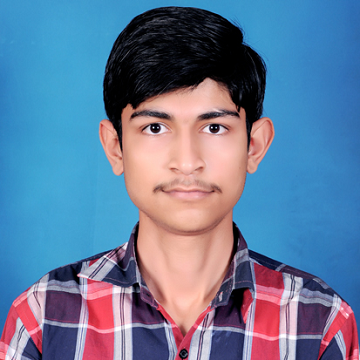
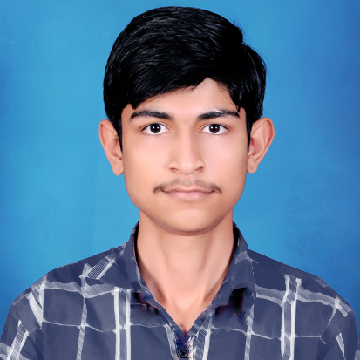
updates and fixes

diff --git a/index.html b/index.html
@@ -14,7 +14,7 @@
   <meta name="viewport" content="width=device-width, initial-scale=1, maximum-scale=1.0, user-scalable=no">
 
   <!-- Favicon-->
-  <link rel="shortcut icon" href="images/favicon.png" >
+  <link rel="shortcut icon" href="images/favicon.ico" >
 
   <!-- Stylesheets -->
   <link rel="stylesheet" href="assets/css/normalize.css">
@@ -66,8 +66,7 @@
             <div class="nav-inner">
               <nav class="primary-nav">
                 <div class="nav-wrapper">
-                  <a href="#home" class="left brand-logo menu-smooth-scroll"><i class="mdi-navigation-menu" style="
-    color: black;"></i></a>
+                  <a href="#home" class="left brand-logo menu-smooth-scroll"><img src="images/logo.png" alt="home"></a>
                   <a href="#" data-activates="mobile-demo" class="button-collapse"><i class="mdi-navigation-menu" style="
     font-size: 2.4rem; line-height: 50px;"></i></a>  
                                       
@@ -109,6 +108,7 @@
                     <li><a href="#home">   Home</a></li>
                       <li><a href="http://github.com/updeshxp"><i class="fa fa-github"></i> Github Profile</a></li>
                       <li><a href="http://codechef.com/users/updeshxp"><i class="fa fa-code"></i> CodeChef id</a></li>
+					  <li><a href="https://www.hackerearth.com/@updesh94"><i class="fa fa-code-fork"></i> HackerEarth id</a></li>
                     <!--<li><a href="blog-with-sidebar.html">Blog with Sidebar</a>-->
                     </li>
                   </ul>
@@ -173,7 +173,7 @@
 
             <div class="col-sm-6 col-md-4">
               <div class="person-img wow fadeIn">
-                <img class="z-depth-1" src="images/passport_size2.jpg" alt="Updesh Srivastava">
+                <img class="z-depth-1" src="images/myPhoto.png" alt="Updesh Srivastava">
               </div>
             </div>
             <!-- about me image -->
@@ -182,16 +182,20 @@
               <div class="person-info">
                 <h3 class="about-subtitle">Personal Information</h3>
                 <h5><span>Name :</span> Updesh Srivastava</h5>
-                <h5><span>Age :</span> 22 Years</h5>
+                <h5><span>Age :</span> 23 Years</h5>
                 <h5><span>Phone :</span> +917531914518</h5>
                 <h5><span>Email :</span> updesh.94@gmail.com</h5>
-                <h5><span>Address :</span> Jhansi, India</h5>
+                <h5><span>Address :</span> Noida, India</h5>
+				<h5><span>Permanent Address :</span> Jhansi, India</h5>
               </div>
 
               <div class="about-social">
                 <ul>
-                  <li class="tooltips tooltipped" data-placement="bottom" data-tooltip="Facebook Profile">
-                    <a href="https://facebook.com/updesh.94" class="btn-floating waves-effect waves-light white"><i class="fa fa-facebook"></i></a>
+                  <li class="tooltips tooltipped" data-placement="bottom" data-tooltip="Instagram Profile">
+                    <a href="https://www.instagram.com/updeshsr/" class="btn-floating waves-effect waves-light white"><i class="fa fa-instagram"></i></a>
+                  </li>
+				  <li class="tooltips tooltipped" data-placement="bottom" data-tooltip="Facebook Profile">
+                    <a href="https://www.facebook.com/updesh.94/" class="btn-floating waves-effect waves-light white"><i class="fa fa-facebook"></i></a>
                   </li>
                   <li class="tooltips tooltipped" data-placement="bottom" data-tooltip="Twitter Profile">
                     <a href="https://twitter.com/updeshxp" class="btn-floating waves-effect waves-light white" ><i class="fa fa-twitter" ></i></a>
@@ -228,7 +232,7 @@
               <div class="col-sm-12 col-md-3">
                 <div class="skill-left">
                   <h2 class="title">Skills</h2>
-                  <p class="regular-text">Man behind the gun, any sophisticated weapons. Human remains that taking the role. We are experienced in utilizing all resources.</p>
+                  <p class="regular-text">Well, Only a few of them..</p>
                 </div>
               </div>
 
@@ -305,6 +309,24 @@
                             </div>
                           </div>
                           <span class="skill-count">70%</span>
+                        </div>
+                      </div>
+                    </div>
+                    <!-- /single skill-->
+					
+                    <!-- single skill -->
+                    <div class="single-skill">
+                      <div class="after-li">
+                        <div class="singel-hr">
+                          <div class="singel-hr-inner" data-height="65%">
+                            <div class="skill-visiable">
+                              <span class="skill-title">Android Development</span>
+                              <div class="hr-wrap">
+                                <div class="hrc"></div>
+                              </div>
+                            </div>
+                          </div>
+                          <span class="skill-count">65%</span>
                         </div>
                       </div>
                     </div>
@@ -511,7 +533,7 @@
                   <div class="clearfix section-head experience-text">
                     <div class="col-sm-12">
                       <h2 class="title">Experience</h2>
-                      <p class="regular-text">Yet to have experience</p>
+                      <p class="regular-text">Looking Forward to it..</p>
                     </div>
                   </div>
                   <div class="col-lg-12">
@@ -660,7 +682,7 @@
                 <div class="clearfix section-head contact-text">
                   <div class="col-sm-12">
                     <h2 class="title">Contact</h2>
-                    <p class="regular-text">Feel free to contact me</p>
+                    <p class="regular-text">Feel free to Contact me</p>
                     <ul class="clearfix contact-info">
                       <li><a href="">+917531914518</a>
                       </li>
@@ -729,7 +751,7 @@
               <ul class="left social-icons">
                 <li><a href="https://facebook.com/updesh.94" class="tooltips tooltipped facebook" data-position="top" data-delay="50" data-tooltip="Facebook"><i class="fa fa-facebook"></i></a>
                 </li>
-                <li><a href="http://linkedin.com/in/updeshxp" class="tooltips tooltipped linkedin" data-position="top" data-delay="50" data-tooltip="Linkdin"><i class="fa fa-linkedin"></i></a>
+                <li><a href="http://linkedin.com/in/updeshxp" class="tooltips tooltipped linkedin" data-position="top" data-delay="50" data-tooltip="Linkedin"><i class="fa fa-linkedin"></i></a>
                 </li>
                 <li><a href="http://twitter.com/updeshxp" class="tooltips tooltipped twitter" data-position="top" data-delay="50" data-tooltip="Twitter"><i class="fa fa-twitter"></i></a>
                 </li>
@@ -743,7 +765,7 @@
                 
               </ul> <!-- ./social icons end -->
               <div class="right copyright">
-                <p>Crafted using materialise css by Updesh Srivastava</p>
+                <p>Crafted using materialise framework by Updesh Srivastava</p>
               </div>
             </div>
           </div>
@@ -754,7 +776,6 @@
 
   </main>
   <!-- Main Container end-->
-
 
   <!-- JavaScripts -->
   <script type="text/javascript" src="https://ajax.googleapis.com/ajax/libs/jquery/1.11.2/jquery.min.js"></script>
@@ -767,5 +788,4 @@
   <script src="assets/js/common.js"></script>
   <script src="assets/js/main.js"></script>
 </body>
-
 </html>

diff --git a/assets/css/main.css b/assets/css/main.css
@@ -367,8 +367,8 @@ header.nav {
 }
 
 .primary-nav .brand-logo img {
-  height: 27px;
-  margin: 25px 5px 0;
+  height: 48px;
+  margin: 9px 5px 0;
 }
 
 .mobile-profile{
